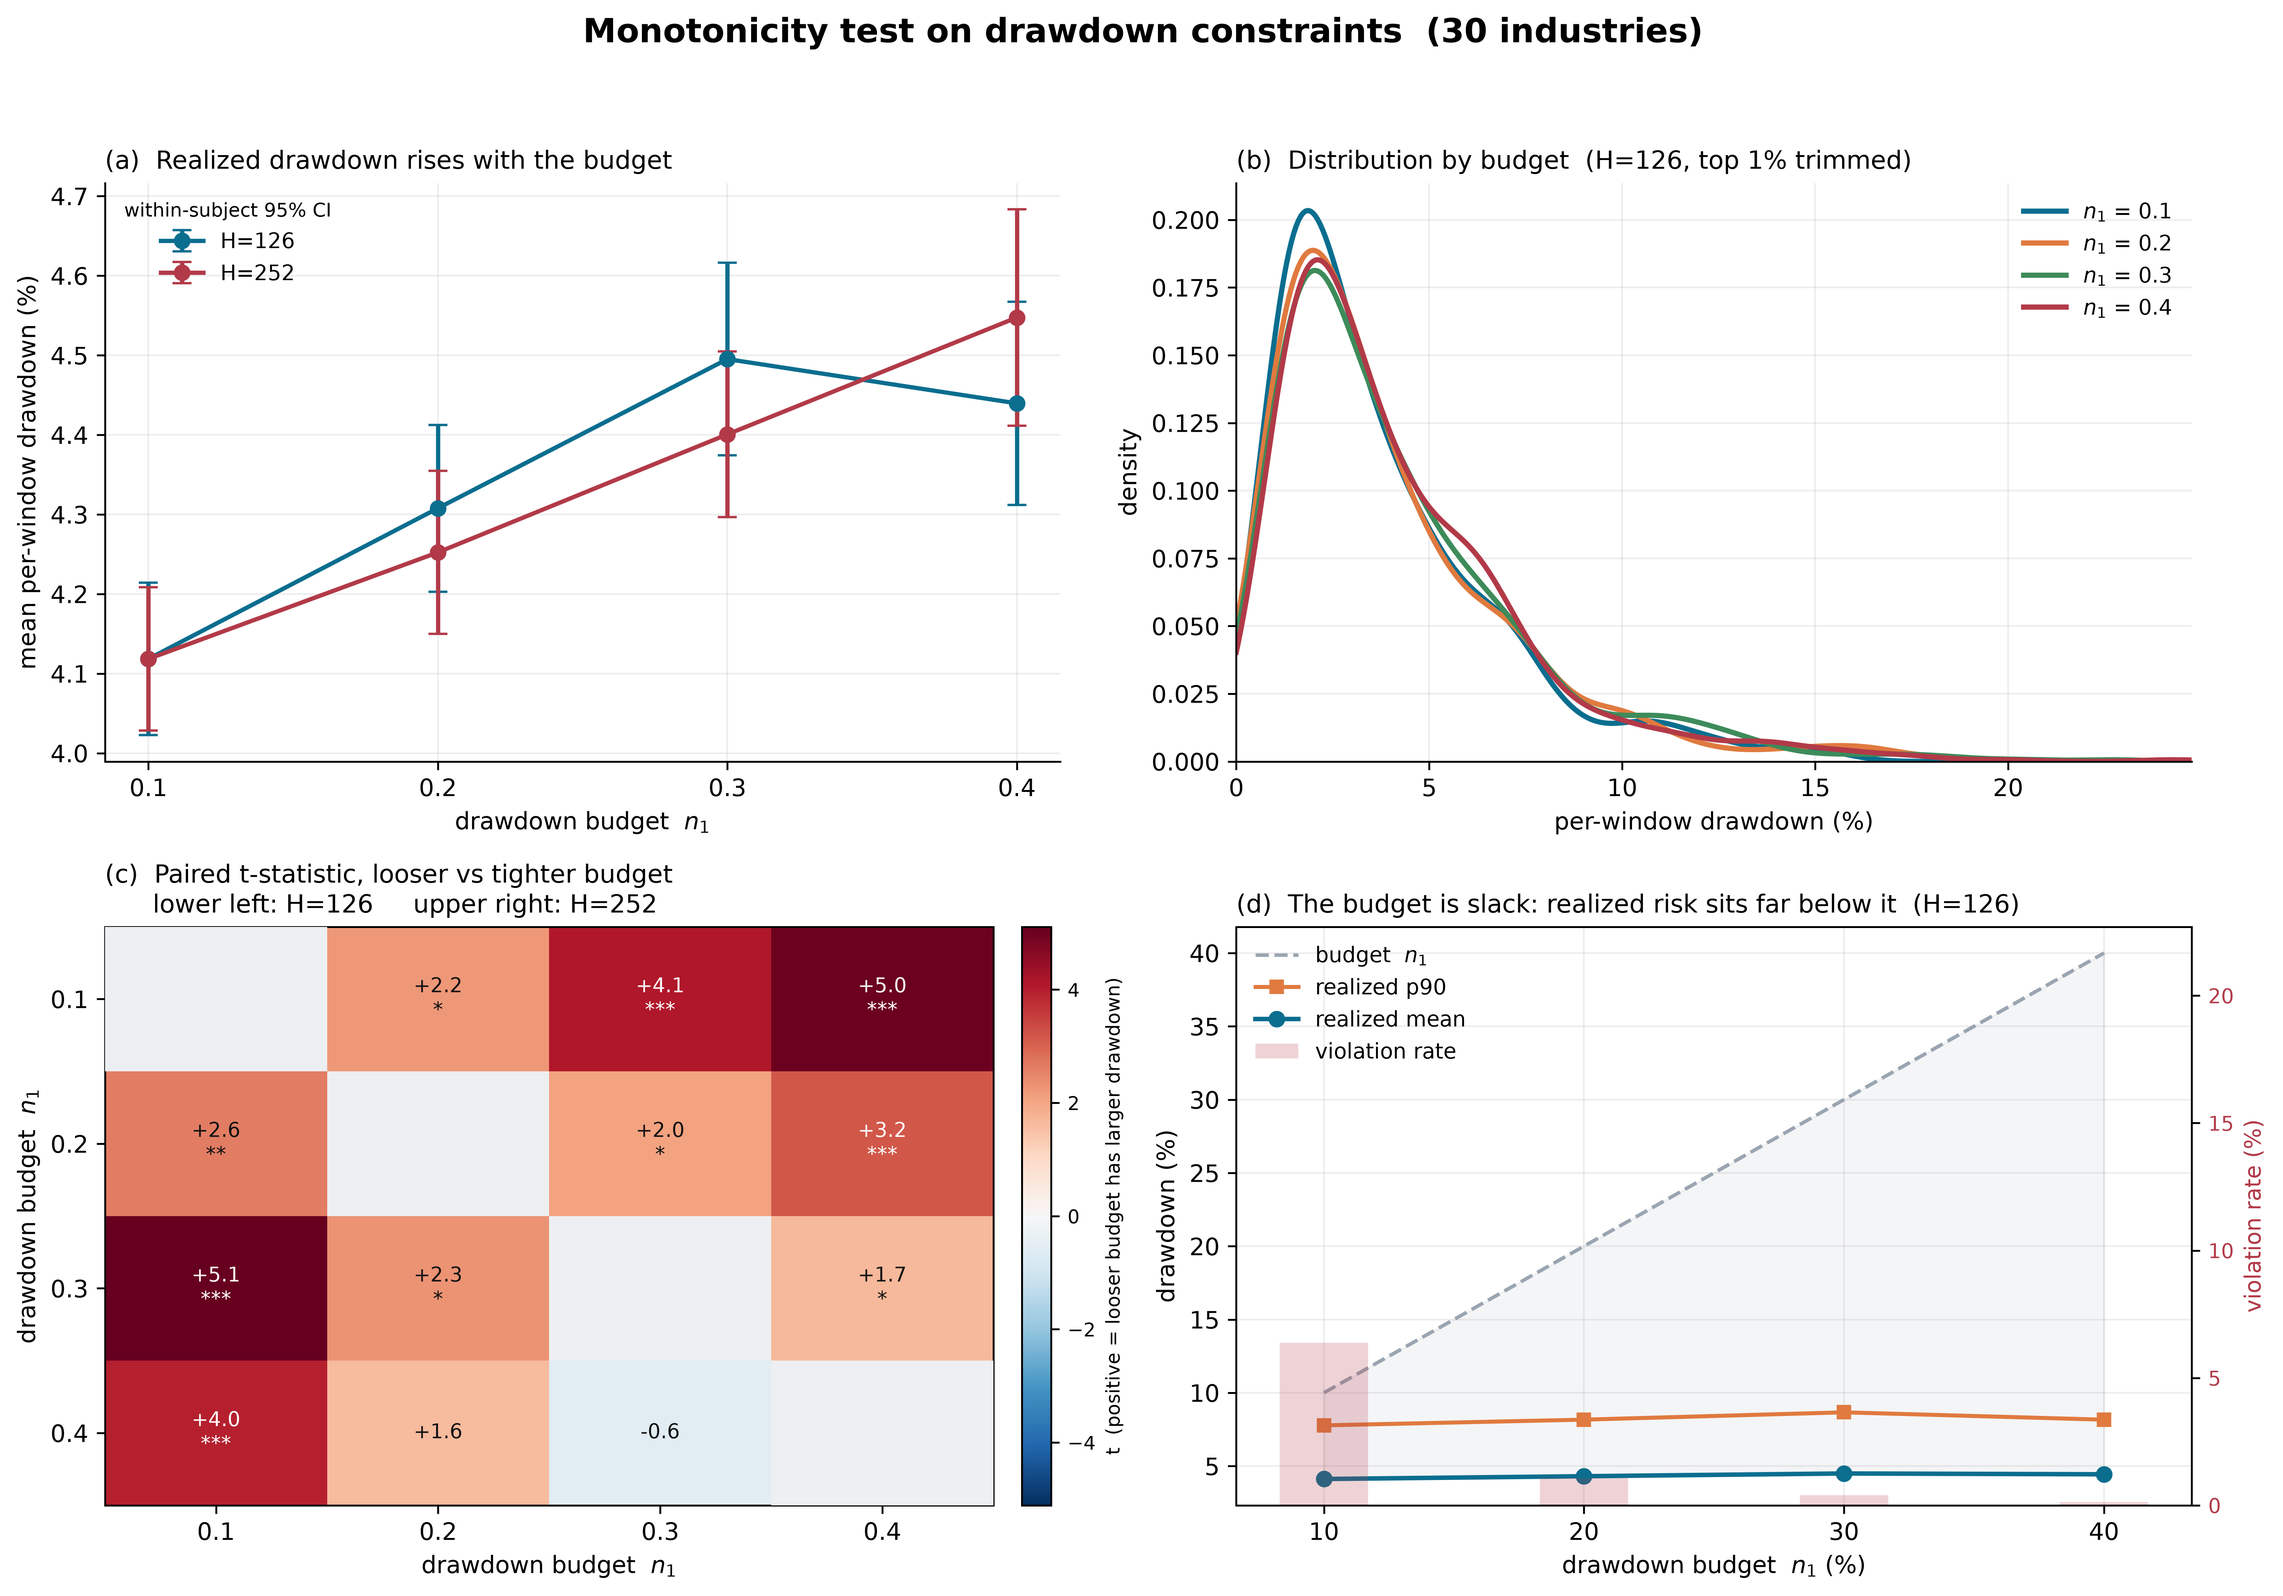
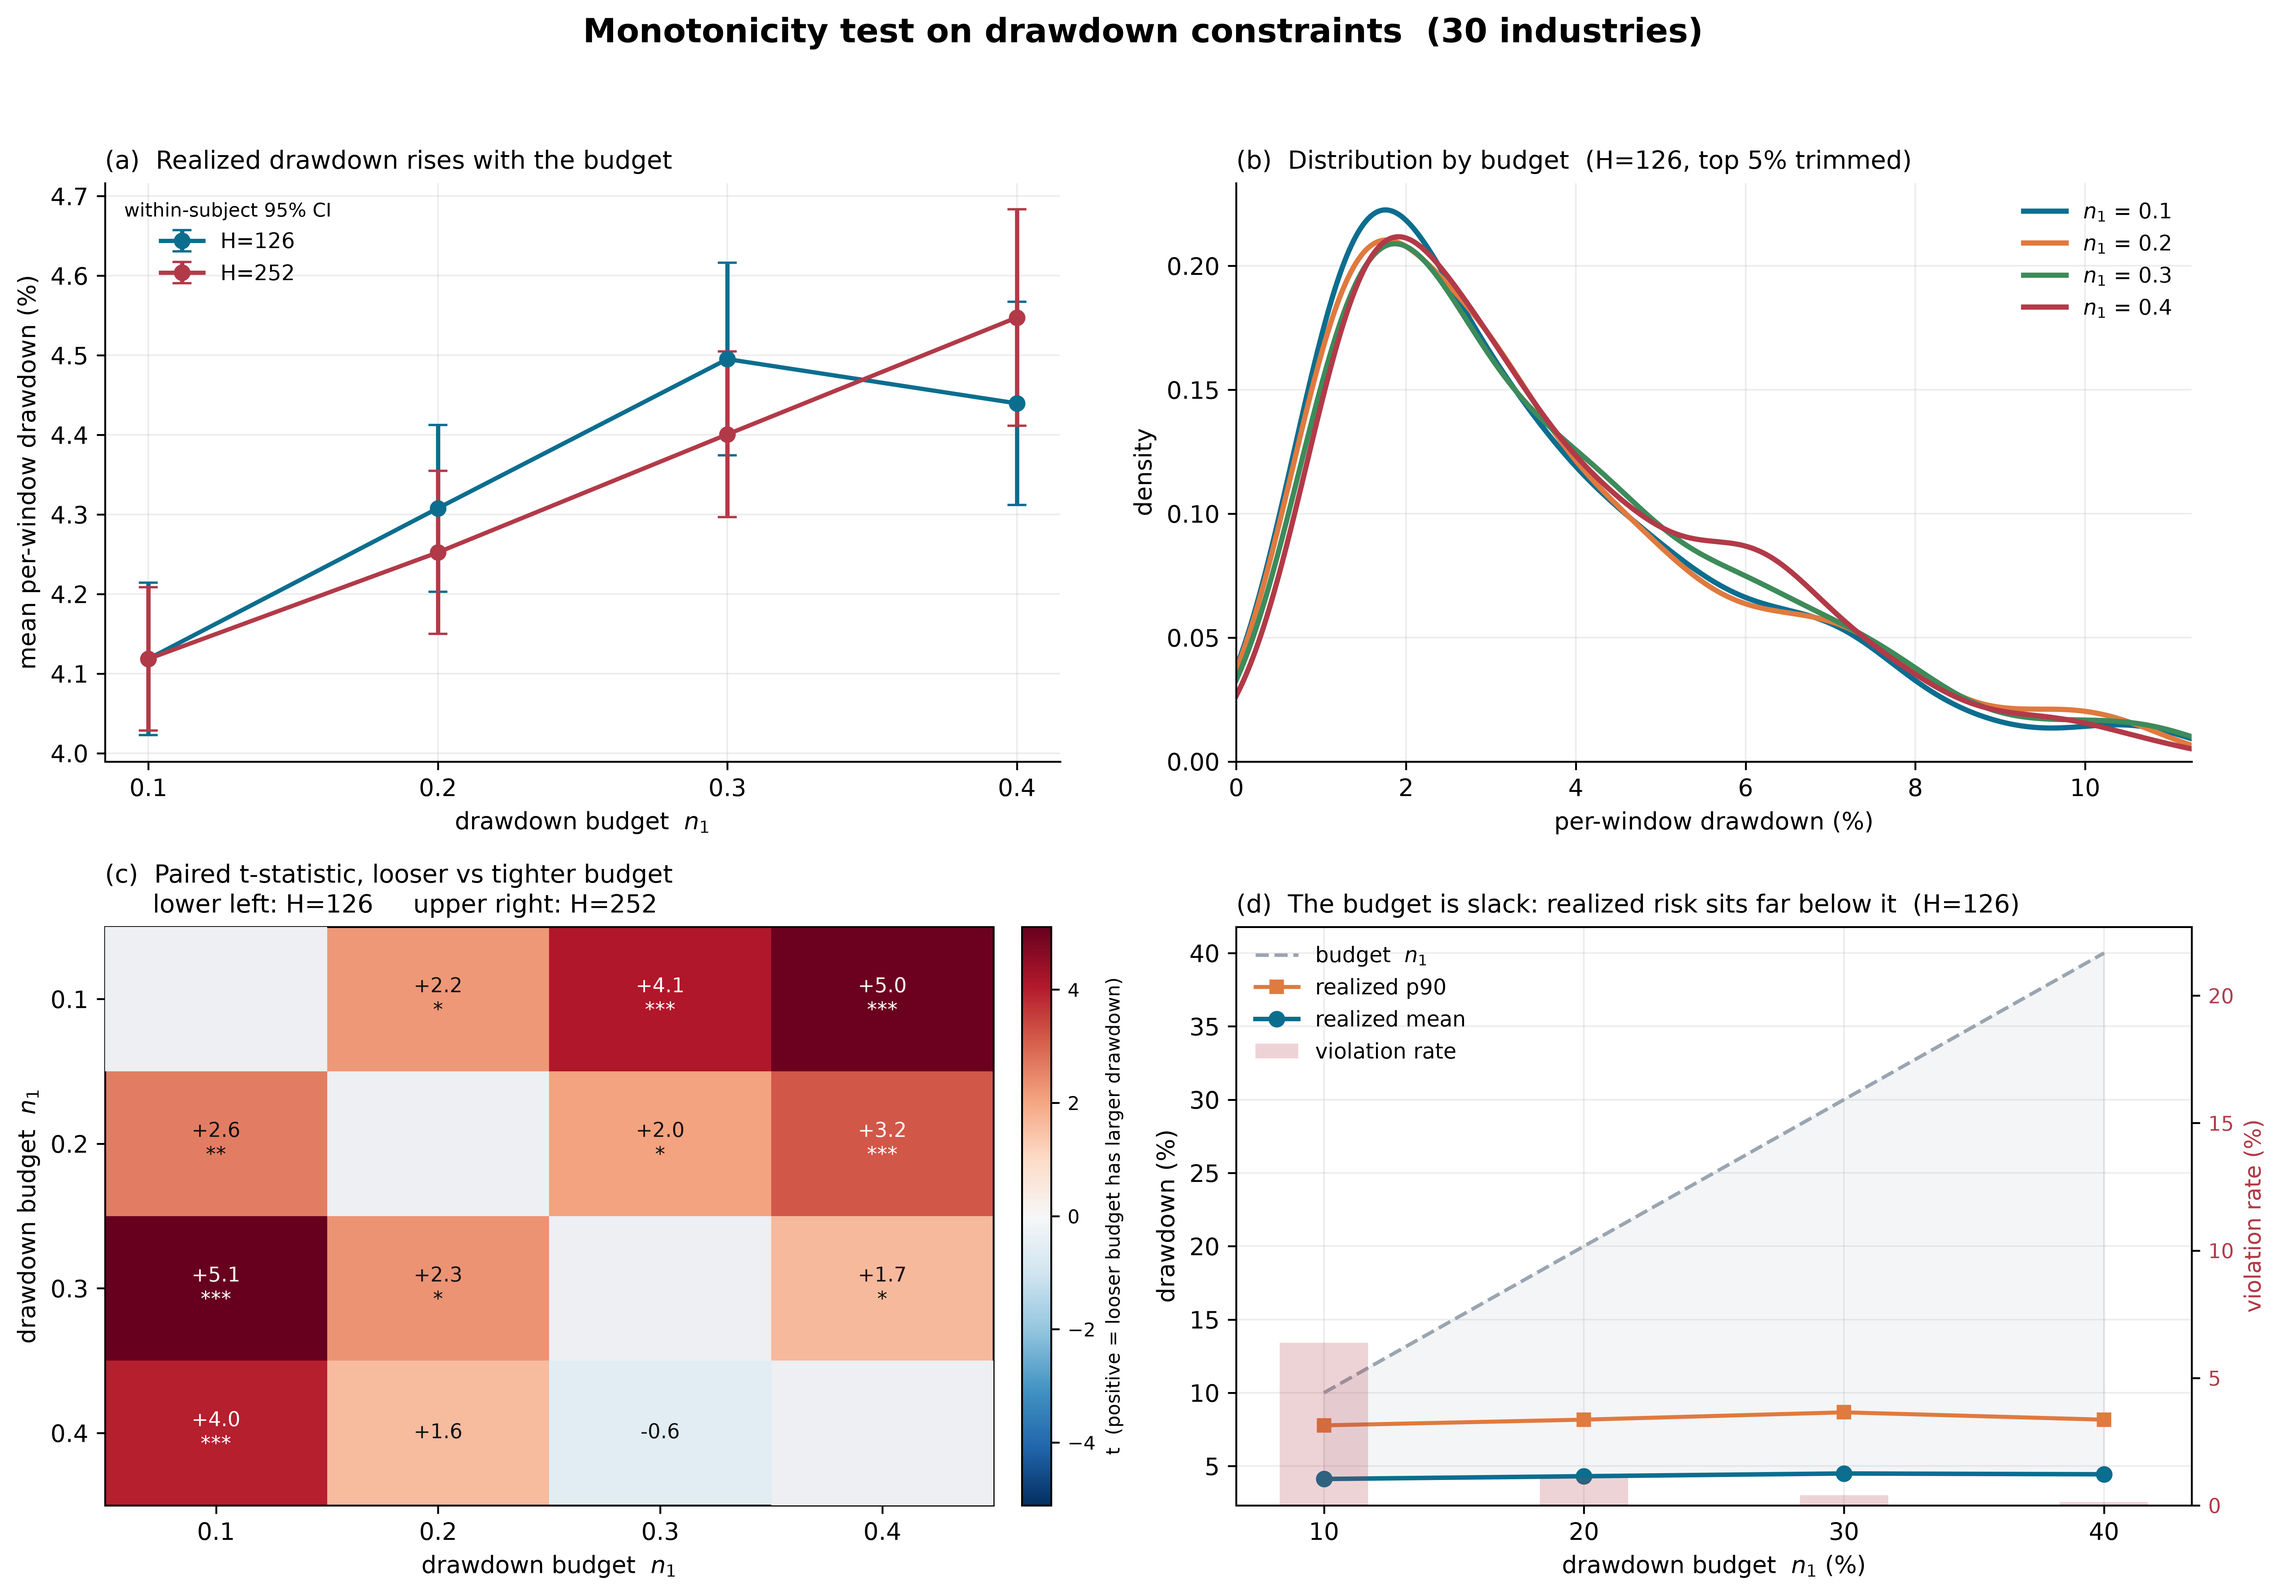
Trim the KDE panel at the 95th percentile
Trimming the top 5% rather than 1% narrows the axis to the body of the distribution, where the shift between budgets is visible. The trim fraction is now a parameter and is stated in the panel title.

diff --git a/DFL-MDD/plot_n1_monotonicity.py b/DFL-MDD/plot_n1_monotonicity.py
@@ -60,13 +60,14 @@ def panel_levels(ax, blocks):
               title_fontsize=8)
 
 
-def panel_kde(ax, long126):
+def panel_kde(ax, long126, trim_pct=5):
     """Kernel density of per-window drawdown, one curve per budget.
 
-    The top 1% of windows is trimmed: a handful of crisis windows reach 20%+
-    and would otherwise stretch the axis and flatten every curve.
+    The top `trim_pct`% of windows is trimmed. A minority of crisis windows
+    reach 20%+ and would otherwise stretch the axis and flatten every curve,
+    hiding the shift between budgets in the body of the distribution.
     """
-    hi = np.percentile(long126.M_real.values * 100, 99)
+    hi = np.percentile(long126.M_real.values * 100, 100 - trim_pct)
     grid = np.linspace(0, hi, 400)
     for n1 in N1_LIST:
         d = long126[long126.n1 == n1].M_real.values * 100
@@ -77,7 +78,7 @@ def panel_kde(ax, long126):
     ax.set_ylim(bottom=0)
     ax.set_xlabel("per-window drawdown (%)")
     ax.set_ylabel("density")
-    ax.set_title("(b)  Distribution by budget  (H=126, top 1% trimmed)",
+    ax.set_title(f"(b)  Distribution by budget  (H=126, top {trim_pct}% trimmed)",
                  fontsize=10.5, loc="left")
     ax.legend(fontsize=9, frameon=False)
 
